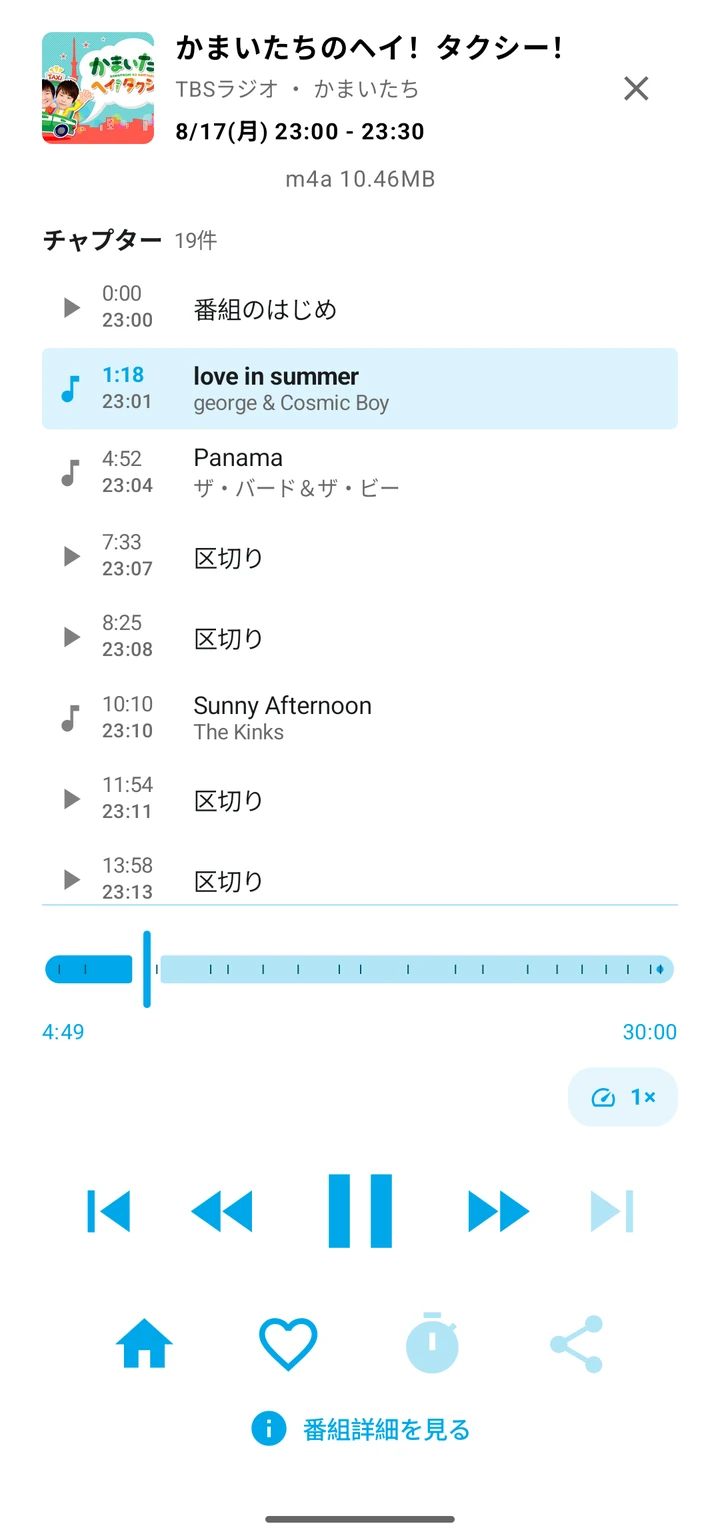
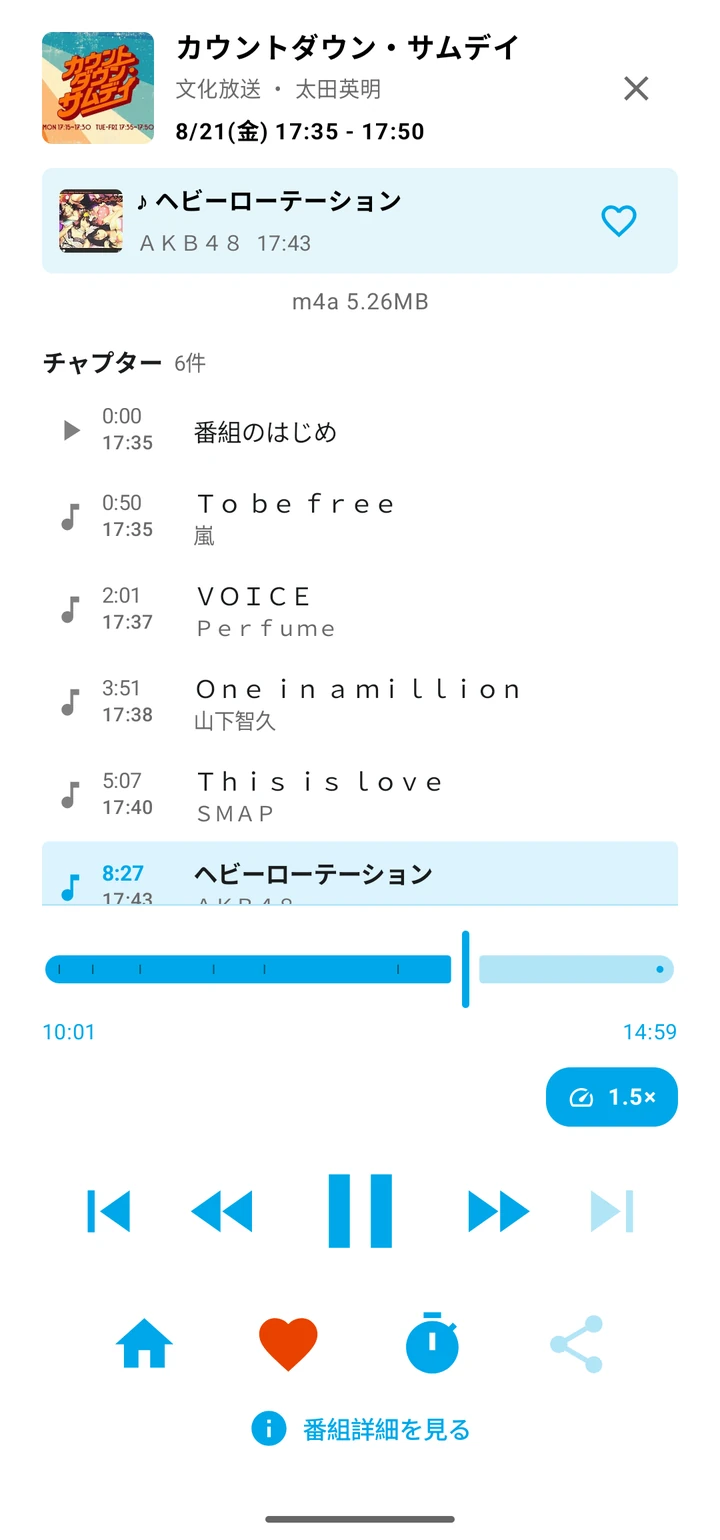
feat: 料金表と機能の一覧を載せ、左ペインにメニューを足す (#28)
紹介ページに載っていたのは6画面ぶんの説明だけで、実装してある機能の
半分も書けていなかった。価格も出す方針に変わったので、あわせて直す。

- 機能を「聴く / 録る / あとで聴く / いつも使う」の4つにまとめ、
  画像の無い機能も文章で説明する
- 料金の比較表を載せる。クローズドテスト期間中は全機能が無料であること、
  提供開始時期が未定であることを併記する
- 左ペインに全ページへのメニューを置く。テーマの default レイアウトを
  写して header に1つ足しただけで、それ以外は変えていない
- 画面写真の CSS を index の中から _includes/head-custom.html へ移す
- Android のバージョン表記を 6.0 以降に統一する（minSdk 23 に合わせる）

プレイヤーとチャプターの画像を撮り直した。どちらもチャプター一覧が
写っていて、隣り合う2枚がほぼ同じ絵になっていた。

diff --git a/_layouts/default.html b/_layouts/default.html
@@ -1,0 +1,69 @@
+<!--
+  jekyll-theme-minimal の default レイアウトの写し。
+  変えたのは header の中にメニュー（.site-nav）を1つ足したところだけ。
+  それ以外はテーマのものと同じにしてある（見た目を変えないため）。
+-->
+<!DOCTYPE html>
+<html lang="{{ site.lang | default: "en-US" }}">
+  <head>
+    <meta charset="UTF-8">
+    <meta http-equiv="X-UA-Compatible" content="IE=edge">
+    <meta name="viewport" content="width=device-width, initial-scale=1">
+
+{% seo %}
+    <link rel="stylesheet" href="{{ '/assets/css/style.css?v=' | append: site.github.build_revision | relative_url }}">
+    <!--[if lt IE 9]>
+    <script src="https://cdnjs.cloudflare.com/ajax/libs/html5shiv/3.7.3/html5shiv.min.js"></script>
+    <![endif]-->
+    {% include head-custom.html %}
+  </head>
+  <body>
+    <div class="wrapper">
+      <header>
+        <h1><a href="{{ "/" | absolute_url }}">{{ site.title | default: site.github.repository_name }}</a></h1>
+
+        {% if site.logo %}
+          <img src="{{site.logo | relative_url}}" alt="Logo" />
+        {% endif %}
+
+        <p>{{ site.description | default: site.github.project_tagline }}</p>
+
+        <ul class="site-nav">
+          {% for item in site.nav %}
+          <li>
+            <a href="{{ item.url | relative_url }}"{% if page.url == item.url %} class="current"{% endif %}>{{ item.title }}</a>
+          </li>
+          {% endfor %}
+        </ul>
+
+        {% if site.github.is_project_page %}
+        <p class="view"><a href="{{ site.github.repository_url }}">View the Project on GitHub <small>{{ site.github.repository_nwo }}</small></a></p>
+        {% endif %}
+
+        {% if site.github.is_user_page %}
+        <p class="view"><a href="{{ site.github.owner_url }}">View My GitHub Profile</a></p>
+        {% endif %}
+
+        {% if site.show_downloads %}
+        <ul class="downloads">
+          <li><a href="{{ site.github.zip_url }}">Download <strong>ZIP File</strong></a></li>
+          <li><a href="{{ site.github.tar_url }}">Download <strong>TAR Ball</strong></a></li>
+          <li><a href="{{ site.github.repository_url }}">View On <strong>GitHub</strong></a></li>
+        </ul>
+        {% endif %}
+      </header>
+      <section>
+
+      {{ content }}
+
+      </section>
+      <footer>
+        {% if site.github.is_project_page %}
+        <p>This project is maintained by <a href="{{ site.github.owner_url }}">{{ site.github.owner_name }}</a></p>
+        {% endif %}
+        <p><small>Hosted on GitHub Pages &mdash; Theme by <a href="https://github.com/orderedlist">orderedlist</a></small></p>
+      </footer>
+    </div>
+    <script src="{{ '/assets/js/scale.fix.js' | relative_url }}"></script>
+  </body>
+</html>

diff --git a/_includes/head-custom.html b/_includes/head-custom.html
@@ -1,0 +1,48 @@
+<link rel="icon" href="{{ '/favicon.ico' | relative_url }}">
+<style>
+/* 画面写真。テーマの img{max-width:100%} だけだと本文の幅いっぱい（500px）に
+   伸びて1枚が縦1000px を超えるので、ここで抑える。
+   GitHub Pages は Markdown の images/x.webp を /docs/images/x.webp に書き換える
+   ため、前方一致ではなく部分一致で当てる。 */
+img[src*="images/"]{
+  display:block;
+  width:100%;
+  max-width:270px;
+  height:auto;
+  aspect-ratio:720/1540;   /* 読み込み中に本文が飛ばないように場所を取っておく */
+  margin:0 auto 12px;
+  border:1px solid #e0e0e0;
+  border-radius:8px;
+}
+
+/* 料金の表は4列ある。狭い画面では折り返しても読みにくいので、
+   その場合だけ横にスクロールさせる。 */
+@media screen and (max-width: 640px){
+  section table{display:block;overflow-x:auto;white-space:nowrap}
+}
+
+/* 左ペインのメニュー。テーマにナビゲーションが無いので足す。 */
+.site-nav{
+  list-style:none;
+  padding:0;
+  margin:24px 0 0;
+  border-top:1px solid #e5e5e5;
+}
+.site-nav li{margin:0}
+.site-nav a{
+  display:block;
+  padding:8px 2px;
+  border-bottom:1px solid #e5e5e5;
+}
+.site-nav a.current{
+  font-weight:700;
+  color:#222;
+}
+.site-nav a.current:hover{color:#222}
+
+/* テーマは画面が狭くなると header ul（ダウンロード用の並び）を絶対配置に
+   飛ばす。こちらのメニューまで飛ばされると読めなくなるので、打ち消す。 */
+@media print, screen and (max-width: 960px){
+  header ul.site-nav{position:static;right:auto;top:auto}
+}
+</style>

diff --git a/index.md b/index.md
@@ -2,19 +2,15 @@
 title: らじぽけ
 ---
 
-<style>
-img[src*="images/"]{display:block;width:100%;max-width:270px;height:auto;aspect-ratio:720/1540;margin:0 auto 12px;border:1px solid #e0e0e0;border-radius:8px}
-</style>
-
 # らじぽけ
 
 Android 向けのラジオ録音アプリです。
 
 radiko で配信されている放送を、いま流れているところからでも、放送が終わったあとからでも聴けます。番組はそのまま端末に録音でき、電波の届かないところでも、あとから好きなときに再生できます。お気に入りに入れた番組は、放送のたびに自動で録音します。
 
-Android 7.0 以降で動きます。
+Android 6.0 以降で動きます。
 
-## 画面
+## 聴く
 
 ### 今やっている放送を聴く
 
@@ -26,7 +22,13 @@ Android 7.0 以降で動きます。
 
 ![番組表](images/guide.webp)
 
-1週間ぶんの番組表から番組を選べます。放送が終わった番組は、その場で再生することも、録音として端末に残すこともできます。番組名や出演者からの検索もできます。
+1週間ぶんの番組表から番組を選べます。放送が終わった番組（タイムフリー）は、その場で再生することも、録音として端末に残すこともできます。
+
+**番組の検索** — 番組名・出演者・番組の説明から探せます。聴きのがした番組を、あとから見つけるのに使えます。
+
+**radiko へのログイン** — radiko のアカウントでログインできます。radiko プレミアム（エリアフリー）に加入していれば、お住まいの地域の外にある放送局も聴けます。ログインしなくても、お住まいの地域の放送局は聴けます。
+
+## 録る
 
 ### 自動で録る
 
@@ -34,27 +36,78 @@ Android 7.0 以降で動きます。
 
 お気に入りに入れた番組は、放送のたびに自動で録音します。番組ごとに切り替えられるので、録りたいものだけを録れます。
 
+**キーワードでの自動録音** — 番組を1つずつ指定するほかに、キーワードを登録しておくこともできます。当てはまる番組が番組表に現れたら、自動で録音を予約します。
+
+**1回だけの録音** — 番組表から、その回だけを録ることもできます。
+
+**お気に入り** — 放送局・番組・オンエア曲を、それぞれお気に入りに登録できます。
+
 ### 録れたものが並ぶ
 
 ![録音済みの一覧](images/recordings.webp)
 
-録音した番組は一覧に並びます。保存先はアプリ内と共有ストレージから選べます。共有ストレージに置けば、ほかの音楽アプリからも開けます。
+録音した番組は一覧に並びます。保存先は3種類から選べます。
 
-### あとで聴く
+- **アプリ内** — ほかのアプリからは見えません。アプリを削除すると一緒に消えます
+- **共有ストレージ** — `Music/RadiPocket` に保存します。ほかの音楽アプリやパソコンからも開けます
+- **好きなフォルダ** — 端末の中の好きな場所を指定できます
+
+いずれも「放送局 / 番組名」のフォルダに分けて保存します。
+
+**保存する前に、録音したファイルを検証します。** 変換したあとのファイルを読み直し、音の長さとデータの数が元と合っているかを確かめます。合わなければ、そのことが分かるようにします。
+
+**番組情報をファイルに書き込みます。** 番組名・放送局・放送日・番組画像を m4a のタグとして埋め込むので、ほかの音楽アプリで開いても番組ごとにまとまって表示されます。
+
+## あとで聴く
+
+### プレイヤー
 
 ![プレイヤー](images/player.webp)
 
-再生速度の変更、スリープタイマー、少し戻す・少し進める、といった操作ができます。聴いていた位置は番組ごとに覚えているので、続きから再生できます。
+少し戻す・少し進める、スリープタイマーといった操作ができます。
+
+**再生速度は 0.5倍から5倍まで**変えられます。よく使う速度を決めておけば、その速度で再生が始まります（ライブは実時間で配信されるため、常に等倍です）。
+
+**聴いていた位置を、番組ごとに覚えています。** 別の番組を聴いてから戻っても、続きから再生できます。
 
 ### 頭出しで聴く
 
 ![チャプター](images/chapters.webp)
 
-録音した番組を無音のところで区切り、章として並べます。聴きたいところから始められます。
+録音した番組の音声を調べ、**無音のところ**（CM の切れ目など）と**オンエア曲の頭**で区切って、章として並べます。聴きたいところから始められます。
 
-## 料金について
+**オンエア曲** — 放送中にかかった曲を、曲名と演奏者つきで一覧できます。気に入った曲はお気に入りに残せます。
 
-一部の機能については、将来的に有料プランを予定しています。
+## いつも使う
+
+**ホーム画面のウィジェットが3種類あります。**
+
+- **再生** — いま再生しているものを、ホーム画面から操作します
+- **録音済み** — 録音した番組を並べ、その場から再生します
+- **お気に入りの放送局** — よく聴く局を並べ、ひと押しで再生します
+
+**ラジオで目覚まし** — 指定した時刻に、お気に入りの放送局や録音した番組で起こします。電波が届かないときは端末のアラーム音に切り替わるので、鳴らないということがありません。
+
+**スリープタイマー** — 指定した時間がたつと再生を止めます。寝る前に使えます。
+
+**クーポンコード** — お渡ししたコードを入力すると、一定の期間だけ上位のプランをお試しいただけます。
+
+## 料金
+
+|  | フリー | スタンダード | プレミアム |
+|---|---|---|---|
+| 月額 | 0円 | 250円 | 500円 |
+| 広告 | あり | なし | なし |
+| 録音の保有数 | 5件 | 10件 | 無制限 |
+| 自動録音 | − | − | ○ |
+| チャプター（頭出し） | − | − | ○ |
+| 再生速度 | 1倍のみ | 0.5〜5倍 | 0.5〜5倍 |
+
+上の表にないもの（番組表・番組の検索・1回だけの録音・保存先3種類・お気に入り・オンエア曲・radiko プレミアムとの連携・ホーム画面のウィジェット・ラジオで目覚まし・スリープタイマー）は、どのプランでもお使いいただけます。
+
+月額のみで、年間の契約はありません。
+
+**クローズドテストの期間中は、すべての機能を無料でお使いいただけます。** 有料プランの提供開始時期は未定です。
 
 ## クローズドテスト
 

diff --git a/test.md b/test.md
@@ -15,7 +15,7 @@ title: クローズドテスト
 ## 参加の条件
 
 - **Google アカウント（Gmail アドレス）** が必要です
-- **Android 7.0 以降** の端末が必要です。**iPhone では動作しません**
+- **Android 6.0 以降** の端末が必要です。**iPhone では動作しません**
 - **テスト期間中は無料** でお使いいただけます
 
 ## 参加の流れ
@@ -61,7 +61,7 @@ title: クローズドテスト
 
 ## 動作環境
 
-- Android 7.0 以降
+- Android 6.0 以降
 - 放送の受信と番組表の取得にインターネット接続が必要です
 - 録音した番組を保存するための空き容量が必要です（1時間の番組でおよそ 20MB）
 
